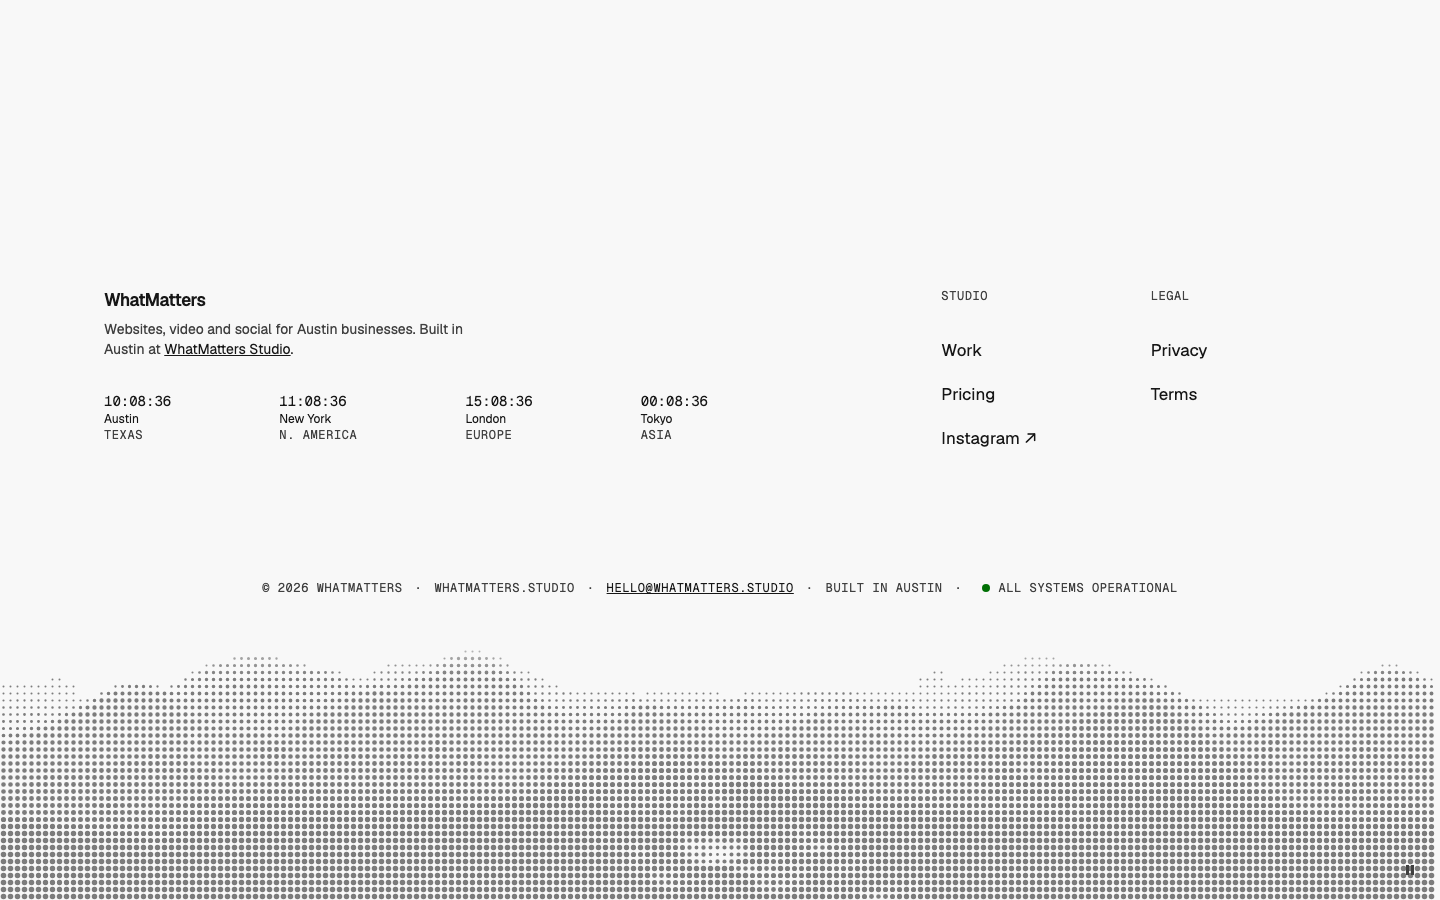
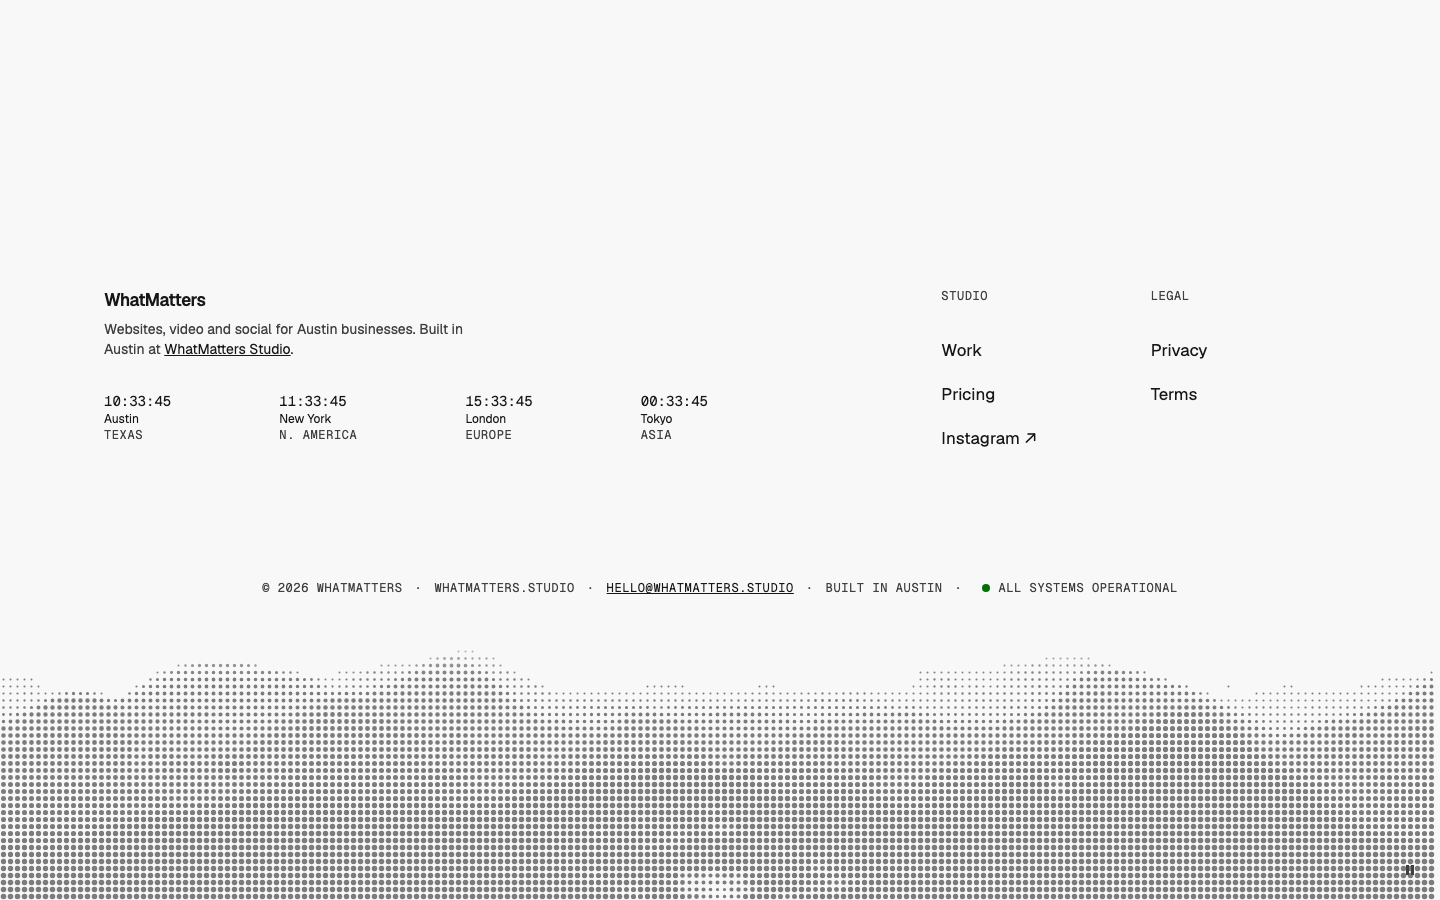
Footer — Landscape: top padding 32 / 40 / 48

diff --git a/patterns/footer/landscape/FooterLandscape.tsx b/patterns/footer/landscape/FooterLandscape.tsx
@@ -36,8 +36,8 @@ export interface FooterLandscapeProps {
 
 /** Root: the tinted paper. `--color-background-muted` is the paper knob (set it in brand.css). */
 const rootClasses = "relative w-full overflow-x-clip bg-[var(--color-background-muted)] text-fg";
-/** Content top: clear paper above the brand (48 / 64 / 80). */
-const gridClasses = "grid-page relative !pt-12 !pb-0 md:!pt-16 lg:!pt-20";
+/** Content top: clear paper above the brand (32 / 40 / 48). */
+const gridClasses = "grid-page relative !pt-8 !pb-0 md:!pt-10 lg:!pt-12";
 const brandBlockClasses = "col-span-full flex flex-col gap-1.5 md:col-span-5 lg:col-span-6";
 const pitchClasses = "max-w-[40ch] text-muted type-body [&_a]:text-fg [&_a]:underline";
 /** Links: right-aligned block (2 columns of the grid each); 3–4 columns take their own row. */
